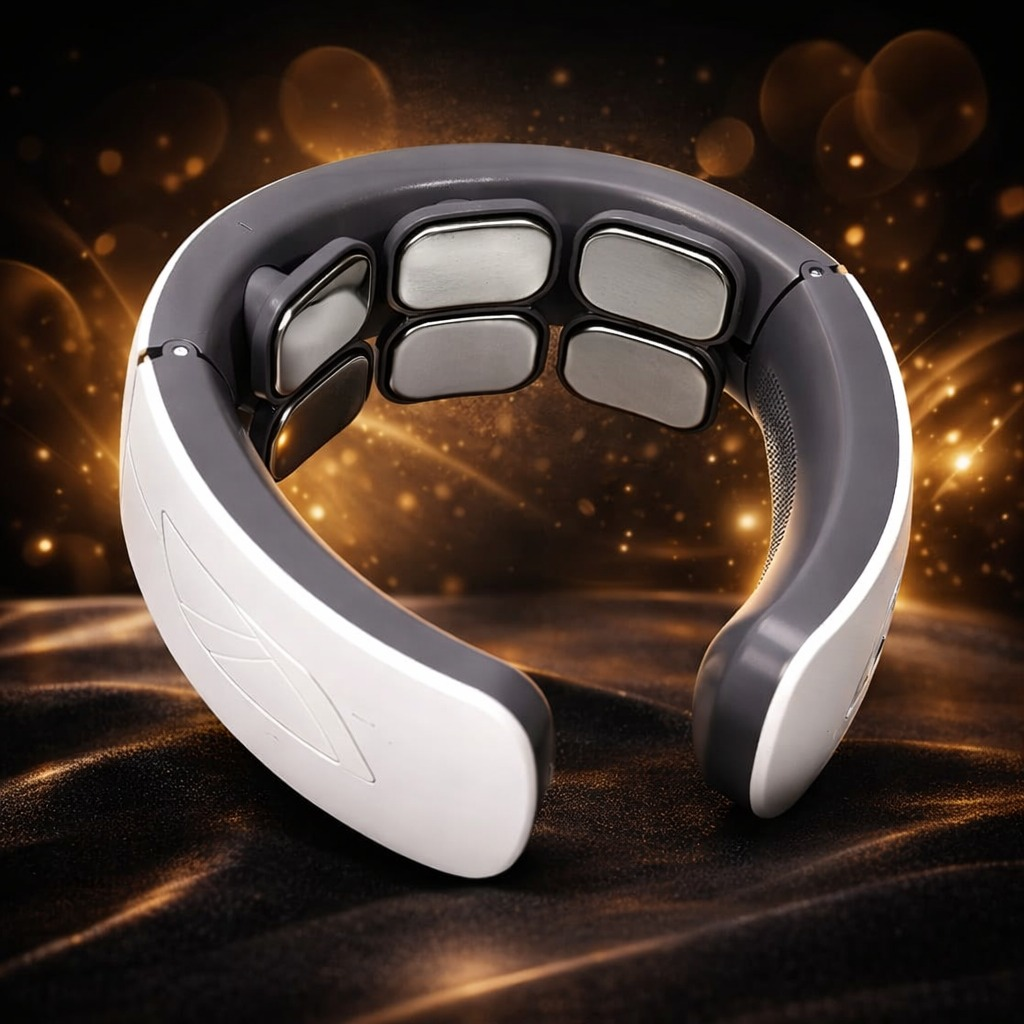
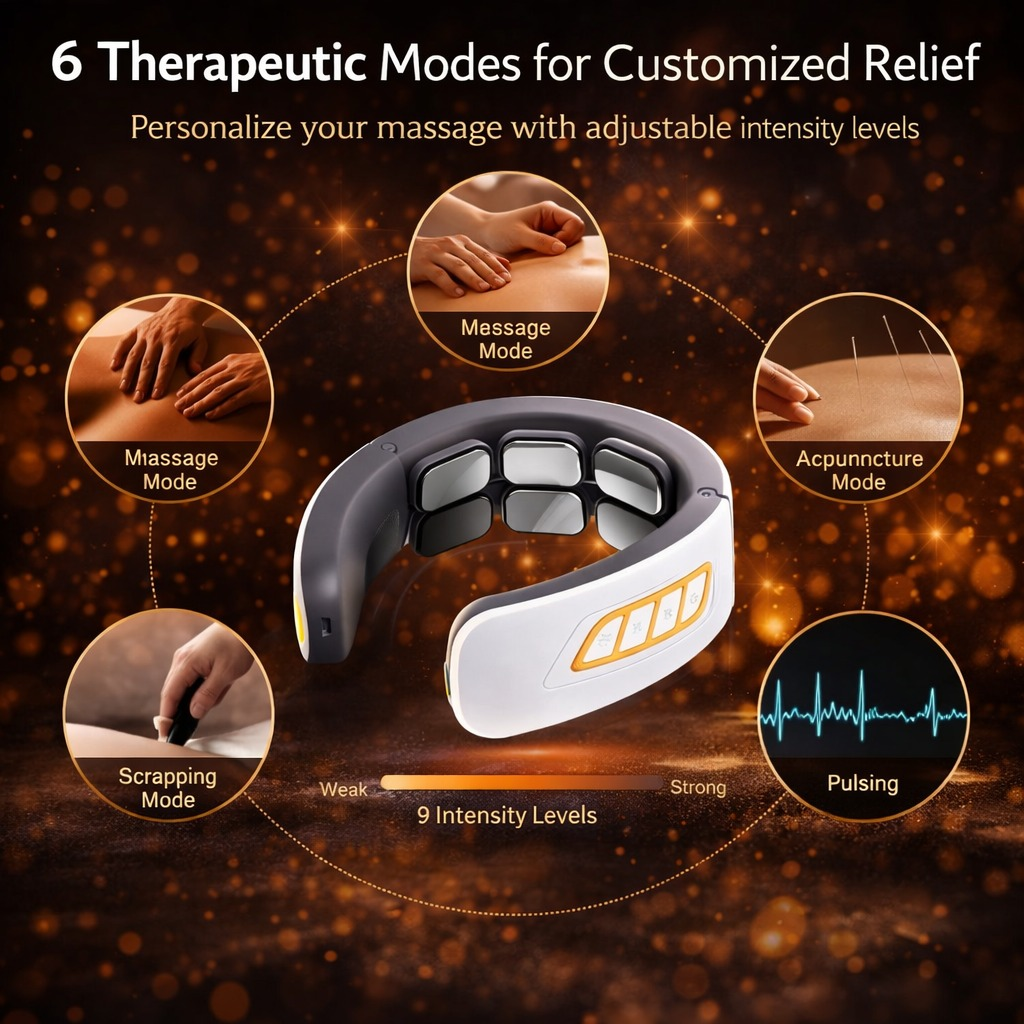
Add neon light effect to hero title

diff --git a/styles.css b/styles.css
@@ -1808,3 +1808,182 @@ footer p {
   background-position: center;
   background-repeat: no-repeat;
 }
+
+/* REAL CITY BACKGROUND */
+.real-city-bg {
+  position: fixed;
+  inset: 0;
+  background-image:
+    linear-gradient(
+      rgba(2, 6, 12, 0.25),
+      rgba(2, 6, 12, 0.58)
+    ),
+    url("./images/city-bg.jpeg");
+
+  background-size: 100% auto;
+  background-position: center top;
+  background-repeat: no-repeat;
+  background-color: #02060c;
+
+  z-index: 0;
+  pointer-events: none;
+}
+
+/* PARTICLES ABOVE CITY IMAGE */
+#particleCanvas {
+  position: fixed;
+  top: 0;
+  left: 0;
+  width: 100%;
+  height: 100%;
+  z-index: 1;
+  pointer-events: none;
+}
+
+/* CONTENT ABOVE EVERYTHING */
+nav,
+.hero,
+section,
+.marquee-wrap,
+.contact-section,
+footer,
+.lang-toggle {
+  position: relative;
+  z-index: 5;
+}
+
+.cursor-glow {
+  z-index: 4;
+}
+
+/* ============================================
+   FIX NAVBAR DISTORTION
+   ============================================ */
+
+nav {
+  position: fixed !important;
+  top: 22px !important;
+  left: 50% !important;
+  transform: translateX(-50%) !important;
+
+  width: auto !important;
+  max-width: 92% !important;
+  height: 58px !important;
+
+  display: flex !important;
+  align-items: center !important;
+  justify-content: center !important;
+  gap: 8px !important;
+
+  padding: 8px 14px !important;
+
+  background: rgba(5, 12, 18, 0.78) !important;
+  border: 1px solid rgba(0, 232, 143, 0.18) !important;
+  border-radius: 999px !important;
+
+  backdrop-filter: blur(18px) !important;
+  -webkit-backdrop-filter: blur(18px) !important;
+
+  box-shadow:
+    0 12px 35px rgba(0, 0, 0, 0.35),
+    inset 0 0 20px rgba(0, 232, 143, 0.03) !important;
+
+  z-index: 9999 !important;
+}
+
+.nav-logo {
+  white-space: nowrap !important;
+  font-family: var(--font-display) !important;
+  font-size: 15px !important;
+  font-weight: 900 !important;
+  letter-spacing: 5px !important;
+  margin-right: 8px !important;
+  color: #ffffff !important;
+}
+
+.nav-logo span {
+  color: #00e88f !important;
+}
+
+nav a {
+  display: flex !important;
+  align-items: center !important;
+  justify-content: center !important;
+
+  height: 38px !important;
+  padding: 0 18px !important;
+
+  border-radius: 999px !important;
+  background: rgba(255, 255, 255, 0.06) !important;
+
+  color: rgba(255, 255, 255, 0.78) !important;
+  text-decoration: none !important;
+
+  font-size: 13px !important;
+  font-weight: 700 !important;
+  letter-spacing: 1.6px !important;
+}
+
+nav a:hover {
+  background: rgba(0, 232, 143, 0.16) !important;
+  color: #ffffff !important;
+}
+
+/* Fix language buttons position */
+.lang-toggle {
+  position: fixed !important;
+  top: 22px !important;
+  right: 28px !important;
+  z-index: 10000 !important;
+}
+
+/* Make sure background stays behind */
+.real-city-bg {
+  z-index: 0 !important;
+}
+
+#particleCanvas {
+  z-index: 1 !important;
+}
+
+.hero,
+section,
+.marquee-wrap,
+.contact-section,
+footer {
+  position: relative !important;
+  z-index: 5 !important;
+}
+
+/* Mobile navbar */
+@media (max-width: 768px) {
+  nav {
+    top: 16px !important;
+    width: calc(100% - 24px) !important;
+    max-width: calc(100% - 24px) !important;
+    height: auto !important;
+    padding: 10px !important;
+    gap: 6px !important;
+    overflow-x: auto !important;
+    justify-content: flex-start !important;
+  }
+
+  .nav-logo {
+    font-size: 12px !important;
+    letter-spacing: 3px !important;
+    margin-right: 6px !important;
+  }
+
+  nav a {
+    height: 34px !important;
+    padding: 0 13px !important;
+    font-size: 11px !important;
+    letter-spacing: 1px !important;
+    flex-shrink: 0 !important;
+  }
+
+  .lang-toggle {
+    top: 78px !important;
+    right: 16px !important;
+  }
+}

diff --git a/index.html b/index.html
@@ -14,6 +14,7 @@
 <body>
 
 <canvas id="particleCanvas"></canvas>
+<div class="real-city-bg"></div>
 <div class="cursor-glow" id="cursorGlow"></div>
 
 <!-- LANGUAGE TOGGLE -->
@@ -782,7 +783,7 @@
     <div class="contact-item reveal">
       <div class="icon">📱</div>
       <h4>WhatsApp</h4>
-      <p>[phone redacted]</p>
+      <p>[phone redacted]</p>
     </div>
 
     <div class="contact-item reveal">